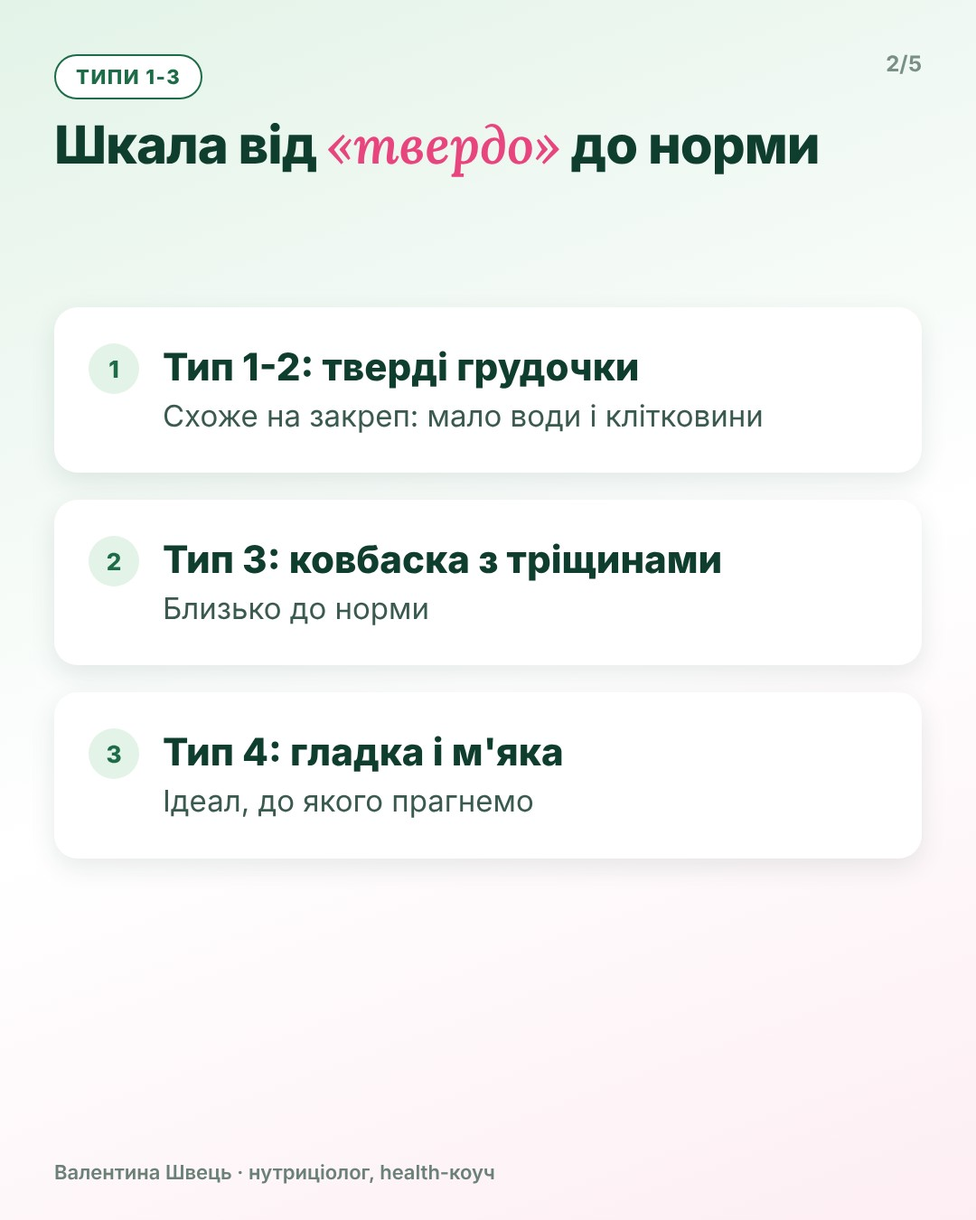
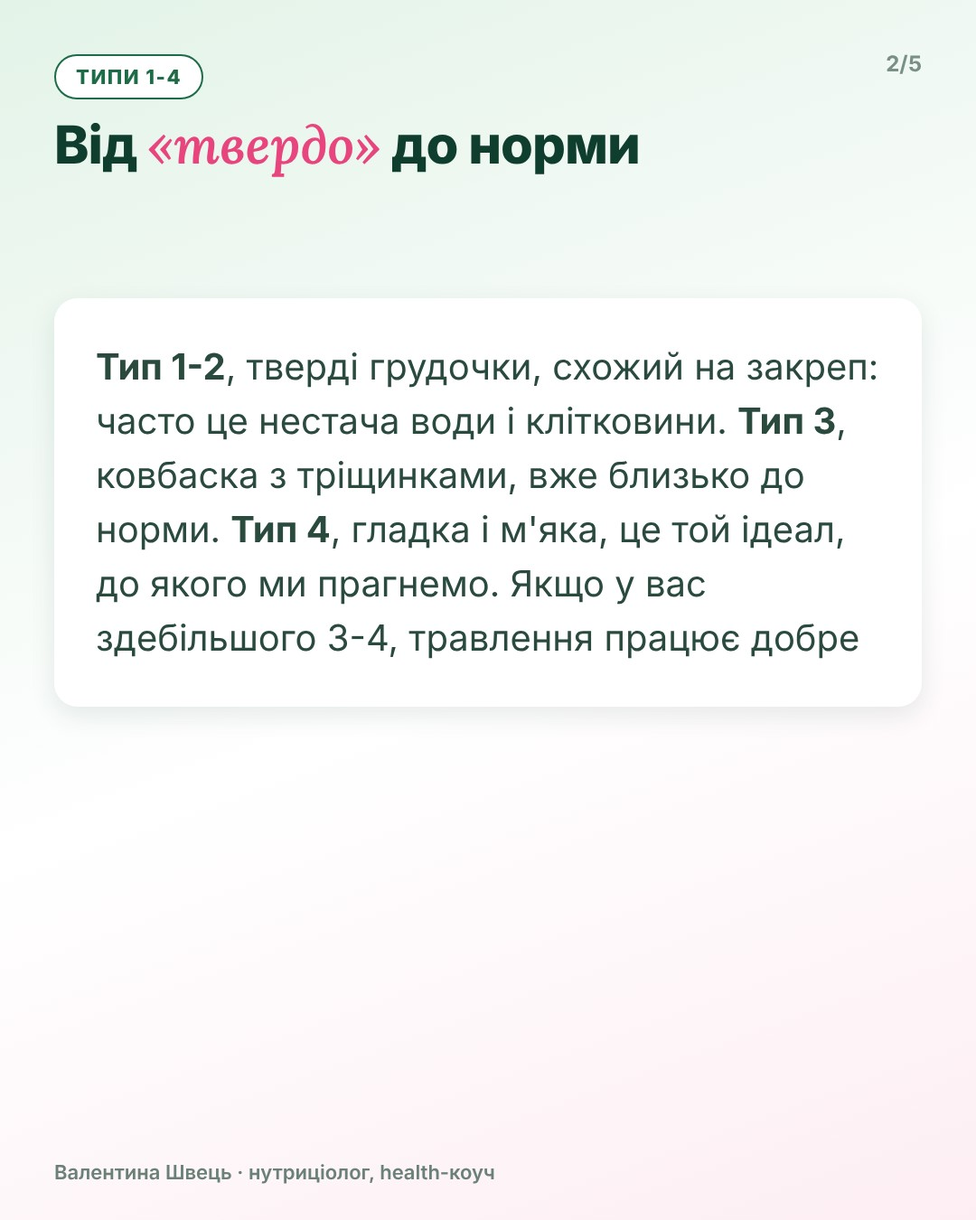
Валентина: каруселі k12-k21 з повними слайдами і описами за Стратегом
Claude-Session: https://claude.ai/code/session_01P95tyL1PPecuZWfpcGvJVw

Changed region(s): [[0.0611, 0.28, 0.8861, 0.56], [0.0611, 0.0933, 0.8556, 0.1556], [0.0917, 0.5911, 0.5806, 0.6844]]

diff --git a/tools/posts2/build.py b/tools/posts2/build.py
@@ -195,81 +195,58 @@ POSTS["k11"] = [  # 23.11: повні тексти (слово Тетяни)
     cta(5, 5, "ДІАГНОСТИКА", "Дізнайтесь, що забирає <em>ваші сили</em>",
         "Моя діагностика з 10 питань покаже, на що звернути увагу саме вам", "ЖИВІТ", T_TEST, "val2.jpg"),
 ]
-POSTS["k12"] = [
+POSTS["k12"] = [  # 23.11: повні тексти
     cover("ВАГА", "Їсте, як пташка, <em>а вага не йде?</em>",
           "Іноді схуднення блокує запалення в кишківнику", "belly.jpg"),
-    items(2, 5, "ЧОМУ ТАК", "Вага стоїть <em>навіть на дієті</em>", [
-        (1, "Запалення", "Організм у режимі захисту і тримає запаси"),
-        (2, "Набряки", "Частина «ваги» може бути затриманою рідиною"),
-        (3, "Жорсткі обмеження", "Мало їжі уповільнює обмін і б'є по мікрофлорі")]),
-    items(3, 5, "ЩО ЗМІНИТИ", "Замість голодування <em>тарілка балансу</em>", [
-        (1, "Половина тарілки овочі", "Клітковина живить корисні бактерії"),
-        (2, "Білок у кожному прийомі", "Ситість і м'язи"),
-        (3, "Регулярність", "3 прийоми їжі краще за постійні перекуси")], "plate_salad.jpg"),
+    text(2, 5, "ЧОМУ ТАК", "Вага стоїть <em>навіть на дієті</em>",
+         "Коли в кишківнику тихе запалення, організм працює <b>в режимі захисту</b> і неохоче віддає запаси. До цього часто додаються набряки, і частина «ваги» на вагах це просто затримана рідина. А жорсткі обмеження ще й <b>уповільнюють обмін</b> і б'ють по мікрофлорі, тож що менше ви їсте, то впертіше стоїть вага"),
+    text(3, 5, "ЩО ЗМІНИТИ", "Замість голодування <em>тарілка балансу</em>",
+         "Наповніть <b>половину тарілки овочами</b>: їхня клітковина живить ваші корисні бактерії. Додайте <b>білок у кожен прийом їжі</b>, він дає ситість і береже м'язи. І їжте регулярно: три спокійні прийоми їжі працюють краще, ніж постійні перекуси на ходу. Так тіло отримує сигнал, що голоду немає, і перестає триматися за запаси", "plate_salad.jpg"),
     review("v2.jpg"),
     cta(5, 5, "ДІАГНОСТИКА", "Почніть <em>з причини</em>",
         "Діагностика з 10 питань підкаже, що заважає саме вашому тілу", "ЖИВІТ", T_TEST, "val1.jpg"),
 ]
-POSTS["k13"] = [
+POSTS["k13"] = [  # 23.11: повні тексти
     cover("ДЕЛІКАТНО", "Чистите зуби двічі на день, а <em>запах лишається?</em>",
           "Неприємний запах з рота і наліт на язику можуть говорити про ШКТ ще до болю в животі", "nausea.jpg"),
-    items(2, 5, "ЧОМУ ТАК", "Звідки <em>запах</em>", [
-        (1, "Застій їжі", "Повільне травлення і бродіння"),
-        (2, "Дисбаланс мікрофлори", "Надлишок «поганих» бактерій у ротовій порожнині й кишківнику"),
-        (3, "Проблеми з жовчю чи шлунком", "Наліт на язику часто ще одна підказка")]),
-    items(3, 5, "ЩО ПІДКАЖЕ ЯЗИК", "Подивіться в <em>дзеркало</em> зранку", [
-        (1, "Білий наліт", "Часто пов'язують з дисбалансом мікрофлори"),
-        (2, "Жовтуватий наліт", "Може бути сигналом про роботу жовчі"),
-        (3, "Наліт тримається довго", "Привід звернутися до фахівця")]),
-    items(4, 5, "ПЕРШІ КРОКИ", "Що можна зробити <em>вже зараз</em>", [
-        (1, "Вода", "Достатньо пити протягом дня"),
-        (2, "Чистити язик", "Щоранку разом із зубами"),
-        (3, "Менше цукру", "Ним живляться бактерії, що дають запах")], "plate_veg.jpg"),
+    text(2, 5, "ЧОМУ ТАК", "Звідки <em>запах</em>",
+         "Коли травлення повільне, їжа <b>застоюється і бродить</b>, і це відчувається навіть у диханні. Часто до цього додається <b>дисбаланс мікрофлори</b>: «поганих» бактерій стає більше і в роті, і в кишківнику. А іноді причина в роботі жовчі чи шлунка, і тоді наліт на язику стає ще однією підказкою"),
+    text(3, 5, "ЩО ПІДКАЖЕ ЯЗИК", "Подивіться в <em>дзеркало</em> зранку",
+         "<b>Білий наліт</b> часто пов'язують з дисбалансом мікрофлори. <b>Жовтуватий наліт</b> може бути сигналом про роботу жовчі. Якщо наліт тримається довго і не зникає після чищення, це вже привід звернутися до фахівця і подивитися на травлення уважніше. Просто зазирніть зранку в дзеркало і звірте"),
+    text(4, 5, "ПЕРШІ КРОКИ", "Що можна зробити <em>вже зараз</em>",
+         "Пийте достатньо <b>води протягом дня</b>, бо сухість у роті підсилює запах. Щоранку разом із зубами <b>чистіть язик</b>, це займає пів хвилини. І зменште цукор, бо саме ним живляться бактерії, які дають неприємний запах. Ці кроки допомагають, але якщо запах повертається щодня, варто шукати причину глибше", "plate_veg.jpg"),
     cta(5, 5, "ДІАГНОСТИКА", "Перевірте, що <em>каже ваш ШКТ</em>",
         "Діагностика з 10 питань покаже, на що звернути увагу саме вам", "ЖИВІТ", T_TEST, "val2.jpg"),
 ]
-POSTS["k14"] = [
+POSTS["k14"] = [  # 23.11: повні тексти
     cover("МІКРОБІОМ", "5 звичок, які <em>тихо руйнують</em> ваш мікробіом",
           "Збережіть і чесно позначте, скільки з них про вас", "plate_veg.jpg"),
-    items(2, 4, "ЗВИЧКИ 1-3", "Ви морите <em>корисні бактерії</em> голодом", [
-        (1, "Одноманітний раціон", "Ультраоброблена їжа і мало овочів, круп, бобових"),
-        (2, "Хронічний стрес", "Порушує зв'язок кишківника і мозку, слизова гірше відновлюється"),
-        (3, "Мало сну", "Кишкові бактерії живуть за добовим ритмом, недосипання його збиває")]),
-    items(3, 4, "ЗВИЧКИ 4-5", "Те, що здається <em>дрібницею</em>", [
-        (1, "Сидячий спосіб життя", "Без руху уповільнюється перистальтика. Навіть прогулянка вже допомагає"),
-        (2, "Алкоголь і ліки без призначення", "Пошкоджують слизову і корисні мікроорганізми")], "lying.jpg"),
+    text(2, 4, "ЗВИЧКИ 1-3", "Ви морите <em>корисні бактерії</em> голодом",
+         "<b>1. Одноманітний раціон.</b> Багато обробленої їжі і мало овочів, круп і бобових, якими живляться корисні бактерії. <b>2. Хронічний стрес.</b> Він порушує зв'язок кишківника і мозку, і слизова гірше відновлюється. <b>3. Мало сну.</b> Кишкові бактерії живуть за добовим ритмом, і недосипання його постійно збиває"),
+    text(3, 4, "ЗВИЧКИ 4-5", "Те, що здається <em>дрібницею</em>",
+         "<b>4. Сидячий спосіб життя.</b> Без руху сповільнюється перистальтика, і їжа довше затримується в кишківнику. Навіть щоденна прогулянка вже допомагає. <b>5. Алкоголь і ліки без призначення.</b> Вони пошкоджують слизову і корисні мікроорганізми. Оберіть одну звичку і почніть з неї цього тижня", "lying.jpg"),
     cta(4, 4, "ДІАГНОСТИКА", "Дізнайтесь, що <em>потрібно вашому</em> кишківнику",
         "Діагностика з 10 питань покаже, з чого почати саме вам", "ЖИВІТ", T_TEST, "val1.jpg"),
 ]
-POSTS["k15"] = [
+POSTS["k15"] = [  # 23.11: повні тексти
     cover("АНТИБІОТИКИ", "Пили антибіотики роки тому? <em>Мікрофлора досі пам'ятає</em>",
           "Скільки насправді відновлюється кишківник без допомоги", "val1.jpg", "center 25%"),
-    items(2, 5, "ЩО ВІДБУВАЄТЬСЯ", "Антибіотик <em>не розбирає</em>, хто корисний", [
-        (1, "Гинуть і корисні бактерії", "Різноманіття мікрофлори зменшується"),
-        (2, "Відновлення буває довгим", "Без підтримки деякі види можуть не повернутися"),
-        (3, "Імунітет слабшає", "Велика частина імунітету пов'язана з кишківником")]),
-    items(3, 5, "СИГНАЛИ", "Як зрозуміти, що <em>мікрофлора не відновилась</em>", [
-        (1, "Часті застуди", "Імунітет просідає"),
-        (2, "Здуття і нестабільний стілець", "Після курсу антибіотиків і досі"),
-        (3, "Грибкові інфекції", "Candida любить «порожні» місця")]),
-    items(4, 5, "ЯК ПІДТРИМАТИ", "Відновлення <em>крок за кроком</em>", [
-        (1, "Пребіотики з їжі", "Овочі, зелень, бобові, крупи"),
-        (2, "Ферментовані продукти", "Квашена капуста, кефір, якщо добре переносите"),
-        (3, "Пробіотики під вашу ситуацію", "Підбираються індивідуально з фахівцем")], "basket.jpg"),
+    text(2, 5, "ЩО ВІДБУВАЄТЬСЯ", "Антибіотик <em>не розбирає</em>, хто корисний",
+         "Антибіотик рятує, коли він справді потрібен, але разом зі шкідливими гинуть і <b>корисні бактерії</b>. Різноманіття мікрофлори зменшується, і відновлення може бути <b>дуже довгим</b>. Без підтримки деякі види можуть не повернутися зовсім. А оскільки велика частина імунітету пов'язана з кишківником, слабшає і він"),
+    text(3, 5, "СИГНАЛИ", "Як зрозуміти, що <em>мікрофлора не відновилась</em>",
+         "Ви стали <b>частіше застуджуватися</b>, ніж раніше. Після курсу антибіотиків досі тримаються <b>здуття і нестабільний стілець</b>. З'явились грибкові інфекції, бо Candida любить місця, де корисних бактерій стало менше. Якщо впізнаєте себе, навіть якщо антибіотики були давно, варто подивитися на мікрофлору"),
+    text(4, 5, "ЯК ПІДТРИМАТИ", "Відновлення <em>крок за кроком</em>",
+         "Почніть з <b>пребіотиків з їжі</b>: овочі, зелень, бобові і крупи живлять ваші власні корисні бактерії. Додайте <b>ферментовані продукти</b>, наприклад квашену капусту чи кефір, якщо добре їх переносите. А пробіотики краще підбирати під вашу ситуацію разом з фахівцем, щоб не купувати баночки навмання", "basket.jpg"),
     cta(5, 5, "ДІАГНОСТИКА", "Перевірте <em>свою мікрофлору</em>",
         "Діагностика з 10 питань покаже, на що звернути увагу саме вам", "ЖИВІТ", T_TEST, "val2.jpg"),
 ]
-POSTS["k16"] = [
+POSTS["k16"] = [  # 23.11: повні тексти
     cover("ТЕМА-ТАБУ", "Що ваш стілець <em>говорить про здоров'я</em>",
           "Брістольська шкала простими словами. Збережіть, щоб перевірити себе", "val2.jpg", "center 25%"),
-    items(2, 4, "ТИПИ 1-3", "Шкала від <em>«твердо»</em> до норми", [
-        (1, "Тип 1-2: тверді грудочки", "Схоже на закреп: мало води і клітковини"),
-        (2, "Тип 3: ковбаска з тріщинами", "Близько до норми"),
-        (3, "Тип 4: гладка і м'яка", "Ідеал, до якого прагнемо")]),
-    items(3, 4, "ТИПИ 5-7", "Від норми до <em>«занадто м'яко»</em>", [
-        (1, "Тип 5: м'які шматочки", "Може бути при нестачі клітковини"),
-        (2, "Тип 6-7: кашоподібний чи рідкий", "Схоже на діарею, привід звернути увагу"),
-        (3, "Колір і регулярність теж важливі", "Норма від 3 разів на день до 3 разів на тиждень")]),
+    text(2, 4, "ТИПИ 1-4", "Від <em>«твердо»</em> до норми",
+         "<b>Тип 1-2</b>, тверді грудочки, схожий на закреп: часто це нестача води і клітковини. <b>Тип 3</b>, ковбаска з тріщинками, вже близько до норми. <b>Тип 4</b>, гладка і м'яка, це той ідеал, до якого ми прагнемо. Якщо у вас здебільшого 3-4, травлення працює добре"),
+    text(3, 4, "ТИПИ 5-7", "Від норми до <em>«занадто м'яко»</em>",
+         "<b>Тип 5</b>, м'які шматочки, може з'являтися при нестачі клітковини. <b>Тип 6-7</b>, кашоподібний чи рідкий, схожий на діарею, і це привід звернути увагу. Колір і регулярність теж важливі: нормою вважають від трьох разів на день до трьох разів на тиждень. Головне, щоб було стабільно і без дискомфорту"),
     cta(4, 4, "ДІАГНОСТИКА", "Не тип 3-4? <em>Давайте розберемось</em>",
         "Діагностика з 10 питань покаже, з чого почати саме вам", "ЖИВІТ", T_TEST, "val1.jpg"),
 ]
@@ -344,7 +321,7 @@ POSTS["k17"] = [  # 22.11 консультація, формат нотаток
     cta(5, 5, "КОНСУЛЬТАЦІЯ −50%", "Почнімо з <em>вашої причини</em>",
         "До кінця листопада консультація зі знижкою 50%. Після оплати я сама напишу вам, щоб узгодити час", "КИШКІВНИК", T_CONS, "val1.jpg"),
 ]
-POSTS["k18"] = [  # 25.11 рецепт
+POSTS["k18"] = [  # 25.11 рецепт; 23.11: повні тексти
     cover("РЕЦЕПТ", "Сніданок, який <em>любить ваш кишківник</em>",
           "Готується з вечора за 3 хвилини. Збережіть, щоб не загубити", "fruits.jpg"),
     items(2, 5, "ПОТРІБНО", "На <em>одну порцію</em>", [
@@ -352,18 +329,14 @@ POSTS["k18"] = [  # 25.11 рецепт
         (2, "1 ст. л. меленого насіння льону", "Або чіа, якщо так більше подобається"),
         (3, "150 мл натурального йогурту чи кефіру", "Без цукру. Можна рослинний, якщо молочне вам не підходить"),
         (4, "Жменя ягід і дрібка кориці", "Ягоди можна заморожені")]),
-    items(3, 5, "ЯК ГОТУВАТИ", "Увечері змішали, <em>зранку снідаєте</em>", [
-        (1, "Змішайте пластівці, льон і йогурт", "Перемішайте, щоб не було сухих грудочок"),
-        (2, "На ніч у холодильник", "За ніч вівсянка м'якне і стає ніжною"),
-        (3, "Зранку додайте ягоди і корицю", "Можна трохи підігріти")], "basket.jpg"),
-    items(4, 5, "ЧОМУ ЦЕ ПРАЦЮЄ", "Кожен інгредієнт <em>має свою роль</em>", [
-        (1, "Овес і льон", "Клітковина, якою живляться ваші корисні бактерії"),
-        (2, "Кисломолочне", "Живі культури, якщо добре переносите"),
-        (3, "Ягоди", "Поліфеноли, які теж підтримують мікрофлору")]),
+    text(3, 5, "ЯК ГОТУВАТИ", "Увечері змішали, <em>зранку снідаєте</em>",
+         "Увечері змішайте в баночці <b>пластівці, льон і йогурт</b> і добре перемішайте, щоб не лишилось сухих грудочок. Закрийте і поставте <b>на ніч у холодильник</b>: за ніч вівсянка м'якне і стає ніжною. Зранку просто додайте ягоди і корицю. Якщо холодне не любите, трохи підігрійте", "basket.jpg"),
+    text(4, 5, "ЧОМУ ЦЕ ПРАЦЮЄ", "Кожен інгредієнт <em>має свою роль</em>",
+         "<b>Овес і льон</b> дають клітковину, якою живляться ваші корисні бактерії. <b>Кисломолочне</b> додає живі культури, якщо ви його добре переносите. А <b>ягоди</b> багаті на поліфеноли, які теж підтримують мікрофлору. Тобто це не просто смачний сніданок, а щоденна турбота про кишківник без зайвих зусиль"),
     cta(5, 5, "ДІАГНОСТИКА", "Дізнайтесь, що <em>потрібно саме вам</em>",
         "Діагностика з 10 питань покаже, на що звернути увагу у вашому травленні", "ЖИВІТ", T_TEST, "val2.jpg"),
 ]
-POSTS["k19"] = [  # 27.11 гумор, Чорна п'ятниця
+POSTS["k19"] = [  # 27.11 гумор, Чорна п'ятниця; 23.11: повні тексти
     cover("ЧОРНА П'ЯТНИЦЯ", "Найвигідніша покупка <em>цієї п'ятниці</em>",
           "Переписка, яку я впізнала б із закритими очима 🙈", "lying.jpg"),
     chat(2, 5, "ПЕРЕПИСКА", [
@@ -376,36 +349,30 @@ POSTS["k19"] = [  # 27.11 гумор, Чорна п'ятниця
         ("b", "Серйозно. Записалась на консультацію до нутриціолога, вона зараз зі знижкою 50%"),
         ("a", "І що там буде?"),
         ("b", "Розберуть мої здуття і втому, і дадуть план, з чого почати. Кофтинку я б уже за місяць забула ❤")]),
-    items(4, 5, "А ЯКЩО СЕРЙОЗНО", "Що справді варто <em>«купити» собі</em>", [
-        (1, "Сон до 23:00", "Безкоштовно і працює щоночі"),
-        (2, "Тарілку з овочами", "Половину тарілки щодня"),
-        (3, "Розуміння своєї причини", "Замість чергової баночки навмання")]),
+    text(4, 5, "А ЯКЩО СЕРЙОЗНО", "Що справді варто <em>«купити» собі</em>",
+         "<b>Сон до 23:00</b>: безкоштовно, а працює щоночі. <b>Половину тарілки овочів</b> щодня, бо ними живляться ваші корисні бактерії. І найцінніше, <b>розуміння своєї причини</b> замість чергової баночки навмання. Кофтинка радує кілька тижнів, а спокійний живіт і енергія зранку лишаються з вами надовго"),
     cta(5, 5, "КОНСУЛЬТАЦІЯ −50%", "Знижка, яка <em>вам справді знадобиться</em>",
         "До кінця листопада консультація зі знижкою 50%. Розберемо вашу ситуацію і складемо план", "КИШКІВНИК", T_CONS, "val1.jpg"),
 ]
-POSTS["k20"] = [  # 28.11 історія клієнтки (з реального відгуку v5)
+POSTS["k20"] = [  # 28.11 історія клієнтки (з реального відгуку v5); 23.11: повні тексти
     cover("ІСТОРІЯ КЛІЄНТКИ", "Лікувала щитовидку, а почати треба було <em>з кишківника</em>",
           "Справжня переписка з клієнткою, яка теж не знала про цей зв'язок", "val2.jpg", "center 25%"),
-    items(2, 5, "ЩО ВОНА НАПИСАЛА", "<em>«Аж не віриться»</em>", [
-        (1, "Антитіла значно нижчі", "В останньому аналізі, і вони продовжують падати"),
-        (2, "Зв'язок, про який вона не знала", "«Раніше я взагалі не знала про цей взаємозв'язок»"),
-        (3, "Почали з кишківника", "«Як тільки ми загоїли кишківник, антитіла почали падати»")]),
+    text(2, 5, "ЩО ВОНА НАПИСАЛА", "<em>«Аж не віриться»</em>",
+         "Клієнтка написала, що в її останньому аналізі <b>антитіла значно нижчі</b> і продовжують падати. І додала: <i>«Раніше я взагалі не знала про цей взаємозв'язок»</i>. Ми почали саме з кишківника, і, як вона сама написала, <i>«як тільки ми загоїли кишківник, антитіла почали падати»</i>. Її справжній скрін на наступному слайді"),
     review("v5.jpg"),
-    items(4, 5, "ЧОМУ ТАК", "Кишківник і щитовидка <em>пов'язані</em>", [
-        (1, "Імунітет", "Велика частина імунної системи пов'язана з кишківником"),
-        (2, "Засвоєння", "Щитовидці потрібні мікроелементи, які засвоюються через кишківник"),
-        (3, "У кожного по-своєму", "Результати індивідуальні, тому план завжди складається особисто")]),
+    text(4, 5, "ЧОМУ ТАК", "Кишківник і щитовидка <em>пов'язані</em>",
+         "Велика частина <b>імунної системи</b> пов'язана з кишківником, тому його стан впливає і на аутоімунні процеси. До того ж щитовидці потрібні мікроелементи, які <b>засвоюються через кишківник</b>. Результати в кожного свої, тому план я завжди складаю особисто, після розбору ваших аналізів і симптомів"),
     cta(5, 5, "КОНСУЛЬТАЦІЯ −50%", "Знайдімо <em>вашу причину</em>",
         "Розберемо ваші аналізи і симптоми на особистій консультації. До кінця листопада зі знижкою 50%", "КИШКІВНИК", T_CONS, "val1.jpg"),
 ]
-POSTS["k21"] = [  # 30.11 останній день знижки
+POSTS["k21"] = [  # 30.11 останній день знижки; 23.11: повні тексти
     cover("ОСТАННІЙ ДЕНЬ", "Сьогодні останній день <em>знижки 50%</em>",
           "На мою індивідуальну консультацію. Завтра ціна буде повна", "val2.jpg", "center 25%"),
     notes(2, 4, "Що ви отримаєте", [
-        "Розбір ваших симптомів, аналізів і харчування",
-        "Зрозумілу картину, що відбувається саме з вами",
-        "Чіткий план, з чого почати",
-        "Після оплати я сама напишу вам, щоб узгодити час"], "30 листопада"),
+        "Розбір ваших симптомів, аналізів і харчування разом зі мною",
+        "Зрозумілу картину, що відбувається саме з вами і чому",
+        "Чіткий план, з чого почати вже наступного дня",
+        "Після оплати я сама напишу вам, щоб узгодити зручний час"], "30 листопада"),
     review("v2.jpg"),
     cta(4, 4, "КОНСУЛЬТАЦІЯ −50%", "Встигніть <em>до кінця дня</em>",
         "Знижка 50% діє тільки сьогодні. Почнімо з вашої причини", "КИШКІВНИК", T_CONS, "val1.jpg"),

diff --git a/instaposts.py b/instaposts.py
@@ -117,6 +117,21 @@ POSTS = [
      "Напишіть у коментарях КИШКІВНИК, і я надішлю, як записатися ❤\n\nІнформація має ознайомчий характер і не замінює особистої консультації. Ваша ситуація може відрізнятися, тому на консультації ми розбираємо саме вас.\n\nкишківник травлення мікробіом здоров'я харчування нутриціолог самопочуття"),
 ]
 
+
+# 23.11 (Тетяна «+»): повні описи за Стратегом, 150+ слів
+CAP2 = {
+    "k12": 'Їсте, як пташка, а вага стоїть на місці? Мені пишуть про це майже щотижня 😉\n\nІ майже завжди наступна думка: «Мені просто треба їсти ще менше». Я вас розумію, але саме тут хочеться зупинитися. Коли їжі стає зовсім мало, обмін гальмує ще сильніше, а корисні бактерії залишаються без харчування.\n\nЧасто вага стоїть через тихе запалення в кишківнику. Організм у режимі захисту і тримає запаси, а частина «ваги» на вагах це затримана рідина.\n\nУ каруселі я пояснюю, чому так буває, і показую тарілку балансу замість голодування: половина овочів, білок у кожному прийомі їжі і регулярність без постійних перекусів. Збережіть, щоб не загубити, і спробуйте хоча б тиждень.\n\nА щоб зрозуміти, що заважає саме вашому тілу, пройдіть мою діагностику з 10 питань.\n\nНапишіть у коментарях ЖИВІТ, і я надішлю діагностику ❤' + "\n\nІнформація має ознайомчий характер і не замінює особистої консультації. Ваша ситуація може відрізнятися, тому на консультації ми розбираємо саме вас.\n\nкишківник травлення мікробіом здоров'я харчування нутриціолог самопочуття",
+    "k13": 'Делікатна тема, про яку мовчать, хоча вона дуже часта: неприємний запах з рота і наліт на язику 😉\n\nБагато хто думає: «Мені просто треба кращу зубну пасту». Паста справді прибирає запах на годину-дві. Але якщо він повертається щодня, причина часто глибше, у травленні.\n\nКоли їжа застоюється і бродить або в мікрофлорі стає більше «поганих» бактерій, тіло підказує про це ще до болю в животі. А наліт на язику часто є ще однією підказкою.\n\nУ каруселі я пояснюю, звідки береться запах, що може підказати колір нальоту і які прості кроки можна зробити вже зараз. Зазирніть зранку в дзеркало і звірте з каруселлю. Тільки без паніки: це привід уважніше подивитися на травлення, а не ставити собі діагноз.\n\nА щоб зрозуміти, що каже саме ваш ШКТ, пройдіть мою діагностику з 10 питань.\n\nНапишіть у коментарях ЖИВІТ, і я надішлю діагностику ❤' + "\n\nІнформація має ознайомчий характер і не замінює особистої консультації. Ваша ситуація може відрізнятися, тому на консультації ми розбираємо саме вас.\n\nкишківник травлення мікробіом здоров'я харчування нутриціолог самопочуття",
+    "k14": "5 звичок, які тихо руйнують ваш мікробіом. Збережіть і чесно позначте, скільки з них про вас 😉\n\nОдноманітна їжа, хронічний стрес, мало сну, мало руху і ліки без призначення. Жодна з цих звичок не здається страшною, і саме тому вони роками непомітно б'ють по корисних бактеріях.\n\nНайчастіше я чую: «У мене немає часу на правильне харчування». Розумію. Тому міняти все одразу і не треба. Оберіть одну звичку з каруселі і почніть з неї цього тижня. Додайте овочі до обіду, вийдіть на прогулянку після вечері або лягайте на пів години раніше. Цього вже достатньо для старту.\n\nКоли одна звичка закріпиться, беріть наступну. Так зміни тримаються, а не закінчуються через тиждень.\n\nА щоб зрозуміти, з чого почати саме вам, пройдіть мою діагностику з 10 питань.\n\nНапишіть у коментарях ЖИВІТ, і я надішлю діагностику ❤" + "\n\nІнформація має ознайомчий характер і не замінює особистої консультації. Ваша ситуація може відрізнятися, тому на консультації ми розбираємо саме вас.\n\nкишківник травлення мікробіом здоров'я харчування нутриціолог самопочуття",
+    "k15": "Пили антибіотики роки тому і думаєте, що все давно минуло? Мікрофлора може пам'ятати це досі 😉\n\nАнтибіотик рятує, коли він справді потрібен. Але він не розбирає, хто корисний, і разом зі шкідливими гинуть і ваші корисні бактерії.\n\nНайчастіше мені кажуть: «Це було давно, вже все відновилось». На жаль, мікрофлора після антибіотиків може відновлюватися дуже довго, а деякі бактерії без підтримки не повертаються зовсім. І тоді з'являються часті застуди, здуття, нестабільний стілець чи грибкові інфекції.\n\nУ каруселі я зібрала сигнали, що мікрофлора ще не відновилась, і як її підтримати крок за кроком: пребіотики з їжі, ферментовані продукти і пробіотики, підібрані під вашу ситуацію, а не навмання. Збережіть, щоб мати під рукою після наступного курсу.\n\nА щоб зрозуміти, на що звернути увагу саме вам, пройдіть мою діагностику з 10 питань.\n\nНапишіть у коментарях ЖИВІТ, і я надішлю діагностику ❤" + "\n\nІнформація має ознайомчий характер і не замінює особистої консультації. Ваша ситуація може відрізнятися, тому на консультації ми розбираємо саме вас.\n\nкишківник травлення мікробіом здоров'я харчування нутриціолог самопочуття",
+    "k16": "Тема-табу, але дуже важлива. Що ваш стілець говорить про здоров'я? 😉\n\nЯкщо вам соромно про це говорити, ви не одна. Саме тому всі мовчать, хоча це одна з найпростіших підказок, яку тіло дає вам щодня.\n\nЛікарі й нутриціологи для цього користуються Брістольською шкалою. Вона ділить стілець на 7 типів: від твердих грудочок, схожих на закреп, до рідкого, схожого на діарею. Норма це типи 3 і 4, а частота від трьох разів на день до трьох разів на тиждень, головне, щоб стабільно і без дискомфорту.\n\nУ каруселі шкала простими словами. Збережіть, щоб перевірити себе спокійно, без сорому і без паніки.\n\nЯкщо у вас здебільшого не тип 3-4, це привід подивитися на травлення уважніше. Пройдіть мою діагностику з 10 питань, і ви побачите, з чого почати.\n\nНапишіть у коментарях ЖИВІТ, і я надішлю діагностику ❤" + "\n\nІнформація має ознайомчий характер і не замінює особистої консультації. Ваша ситуація може відрізнятися, тому на консультації ми розбираємо саме вас.\n\nкишківник травлення мікробіом здоров'я харчування нутриціолог самопочуття",
+    "k18": 'Сніданок, який готується з вечора за 3 хвилини, а зранку вже чекає на вас 😉 Збережіть, щоб не загубити.\n\n«У мене зранку немає часу на сніданок» я чую дуже часто. Тому в цьому рецепті все робиться ввечері: змішали в баночці пластівці, льон і йогурт, поставили в холодильник, а зранку просто додали ягоди і корицю.\n\nІ це не просто смачно. Овес і льон дають клітковину, якою живляться ваші корисні бактерії. Кисломолочне додає живі культури, якщо ви його добре переносите. А ягоди багаті на поліфеноли, які теж підтримують мікрофлору. Якщо молочне вам не підходить, беріть рослинний йогурт.\n\nСпробуйте цей сніданок хоча б тиждень і напишіть мені в коментарях, як почуваєтесь.\n\nА щоб зрозуміти, що потрібно саме вашому травленню, пройдіть мою діагностику з 10 питань.\n\nНапишіть у коментарях ЖИВІТ, і я надішлю діагностику ❤' + "\n\nІнформація має ознайомчий характер і не замінює особистої консультації. Ваша ситуація може відрізнятися, тому на консультації ми розбираємо саме вас.\n\nкишківник травлення мікробіом здоров'я харчування нутриціолог самопочуття",
+    "k19": "Чорна п'ятниця, кошик повний, а живіт після вечері знову як повітряна кулька 🙈 Впізнаєте себе в цій переписці?\n\nЯ люблю гарні речі, як і всі. Але кофтинку ви, можливо, забудете вже за місяць. А спокійний живіт, легкість після їжі і енергія зранку лишаються з вами надовго.\n\nНайчастіше мені кажуть: «Консультація це дорого, краще потім». Тоді порахуйте, скільки вже пішло на баночки, чаї і засоби навмання. Один розбір часто коштує менше і заощаджує місяці спроб.\n\nНа консультації ми розбираємо ваші симптоми, аналізи і харчування, і ви йдете з чітким планом, з чого почати. До кінця листопада вона зі знижкою 50% ‼\n\nЦе, мабуть, найкорисніша покупка цієї п'ятниці 😉\n\nНапишіть у коментарях КИШКІВНИК, і я надішлю, як записатися ❤" + "\n\nІнформація має ознайомчий характер і не замінює особистої консультації. Ваша ситуація може відрізнятися, тому на консультації ми розбираємо саме вас.\n\nкишківник травлення мікробіом здоров'я харчування нутриціолог самопочуття",
+    "k20": "Ця переписка для мене одна з найдорожчих ❤\n\nКлієнтка написала: «Аж не віриться, що мій кишківник настільки вплинув на щитовидку. Раніше я взагалі не знала про цей взаємозв'язок». В її останньому аналізі антитіла значно нижчі, і вони продовжують падати. Справжній скрін у каруселі.\n\nМожливо, ви зараз думаєте: «У мене щитовидка, до чого тут кишківник?». Вона думала так само. Але велика частина імунної системи пов'язана з кишківником, а мікроелементи, потрібні щитовидці, засвоюються саме через нього. Тому я завжди дивлюсь на них разом.\n\nРезультати в кожного свої, і план я складаю особисто, після розбору ваших аналізів і симптомів.\n\nЯкщо у вас є питання до щитовидки чи аутоімунні процеси, розберемо ваші аналізи на консультації. До кінця листопада вона зі знижкою 50% ‼\n\nНапишіть у коментарях КИШКІВНИК, і я надішлю, як записатися ❤" + "\n\nІнформація має ознайомчий характер і не замінює особистої консультації. Ваша ситуація може відрізнятися, тому на консультації ми розбираємо саме вас.\n\nкишківник травлення мікробіом здоров'я харчування нутриціолог самопочуття",
+    "k21": 'Сьогодні останній день, коли мою консультацію можна взяти зі знижкою 50% ‼ Завтра ціна буде повна.\n\n«Почну з понеділка сама», так кажемо ми всі. Я теж так казала. Але понеділок може настати і без знижки, а здуття, втома чи висипання нікуди самі не дінуться.\n\nНа консультації ми разом розберемо ваші симптоми, аналізи і харчування. Ви побачите, що відбувається саме з вами і чому, і отримаєте чіткий план, з чого почати вже наступного дня. Без загальних порад і баночок навмання.\n\nПісля оплати я сама напишу вам, щоб узгодити зручний час.\n\nЯкщо ви давно відкладаєте турботу про себе, сьогодні дуже вдалий день почати.\n\nНапишіть у коментарях КИШКІВНИК, і я надішлю, як записатися ❤' + "\n\nІнформація має ознайомчий характер і не замінює особистої консультації. Ваша ситуація може відрізнятися, тому на консультації ми розбираємо саме вас.\n\nкишківник травлення мікробіом здоров'я харчування нутриціолог самопочуття",
+}
+POSTS = [(p[0], p[1], p[2], CAP2.get(p[0], p[3])) + tuple(p[4:]) for p in POSTS]
+
 INTRO = ("📸 <b>Готові каруселі для Instagram</b>\n\n"
          "Щодня о <b>9:00</b> сюди приходитиме одна готова карусель: 5 слайдів і опис.\n"
          "Кодові слова люди пишуть <b>у коментарях під постом</b>:\n"

diff --git a/changelog.py b/changelog.py
@@ -10,10 +10,10 @@ import db
 
 log = logging.getLogger("changelog")
 
-VERSION = "2026-11-23-k11"
+VERSION = "2026-11-23-kfull"
 NOTES = [
-    "Каруселі: завтрашня «Прокидаєтесь уже втомленою?» тепер з повними слайдами і довшим описом",
-    "В описах каруселей нова примітка: «не замінює особистої консультації, на консультації ми розбираємо саме вас»",
+    "Каруселі з 24.11 по 5.12 (k11-k21) переписано: повні слайди замість коротких карток і повні описи",
+    "В описах нова примітка: «не замінює особистої консультації, на консультації ми розбираємо саме вас»",
 ]
 
 

diff --git a/CLAUDE.md b/CLAUDE.md
@@ -86,4 +86,4 @@
 - 23.11 23:05: vadsetup.note_job (flag vads_note): Валентині пояснення, що кабінет налаштовує Тетяна (сама або разом).
 
 ## Повні тексти каруселей (23.11, Тетяна «+»)
-- build.py text(): слайди 40-60 слів замість карток. k11 переписано (слайди + опис 195 слів). Примітка в описах і на CTA: «не замінює особистої консультації…» (Валентина сама спеціаліст). Далі k12-k21 так само, після погодження k11.
+- build.py text(): слайди 40-60 слів замість карток. k11 переписано (слайди + опис 195 слів). Примітка в описах і на CTA: «не замінює особистої консультації…» (Валентина сама спеціаліст). 23.11 (Тетяна «Ок +»): k12-k16, k18-k21 так само (слайди text(), CAP2 в instaposts.py, 140-165 слів). k17 уже пройшла 22.11.
